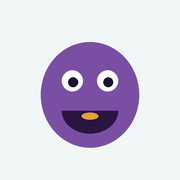
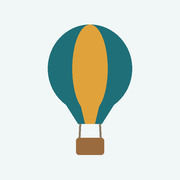
Abo-App: Heißluftballon statt Monster (Nein-Verträge als Sandsäcke)
Claude-Session: https://claude.ai/code/session_01Giu3Q7UQ7r1pL5sZZEkJSp

diff --git a/docs/app/abo/index.html b/docs/app/abo/index.html
@@ -9,7 +9,7 @@
 <meta name="theme-color" content="#F1F6F7">
 <meta name="apple-mobile-web-app-capable" content="yes">
 <meta name="mobile-web-app-capable" content="yes">
-<meta name="apple-mobile-web-app-title" content="Abo-Monster">
+<meta name="apple-mobile-web-app-title" content="Abo-Tracker">
 <meta name="apple-mobile-web-app-status-bar-style" content="default">
 <link rel="manifest" href="manifest.webmanifest">
 <link rel="icon" href="icon-192.png" type="image/png">
@@ -18,9 +18,9 @@
 @font-face { font-family: "Fredoka"; src: url(fonts/fredoka.ttf) format("truetype"); font-weight: 300 700; font-display: swap; }
 @font-face { font-family: "Inter"; src: url(fonts/inter-400.ttf) format("truetype"); font-weight: 400; font-display: swap; }
 @font-face { font-family: "Inter"; src: url(fonts/inter-600.ttf) format("truetype"); font-weight: 600; font-display: swap; }
-:root { --page: #F1F6F7; --card: #FFFFFF; --soft: #E5EFF0; --ink: #1B2A2E; --muted: #5C7075; --line: #D3E2E4; --accent: #1F6F78; --accent-ink: #FFFFFF; --gold: #E0A23B; --good: #2F7D52; --bad: #B5483B; --focus: #86C3C9; --hint-bg: #FFF3D6; --hint-ink: #7A5600; --nav: rgba(255,255,255,.94); --shadow: 0 2px 12px rgba(27,42,46,.07); --mon: #7A4FA3; --mon2: #5E3A82; --mon-happy: #3FA08C; --ok-bg: #D3EBDD; --ok-ink: #1C5A39; --no-bg: #F6DCD7; --no-ink: #8A3226; --warn-bg: #FDE7C2; --warn-ink: #7A4300; --display: "Fredoka", "Trebuchet MS", system-ui, sans-serif; --body: "Inter", system-ui, -apple-system, "Segoe UI", sans-serif; color-scheme: light; }
-@media (prefers-color-scheme: dark) { :root:not([data-theme="light"]) { --page: #10191B; --card: #192529; --soft: #213136; --ink: #E6F0F1; --muted: #9BB1B5; --line: #2B3F44; --accent: #5BBAC4; --accent-ink: #0D1618; --gold: #F0BE55; --good: #6CC79A; --bad: #E8897B; --focus: #86C3C9; --hint-bg: #3A2F12; --hint-ink: #F5D38A; --nav: rgba(25,37,41,.95); --shadow: 0 2px 12px rgba(0,0,0,.35); --mon: #9C74C6; --mon2: #7A55A6; --mon-happy: #58C1AA; --ok-bg: #23443A; --ok-ink: #C6EBD9; --no-bg: #45302C; --no-ink: #F0C2B9; --warn-bg: #47391F; --warn-ink: #F2D7A2; --display: "Fredoka", "Trebuchet MS", system-ui, sans-serif; --body: "Inter", system-ui, -apple-system, "Segoe UI", sans-serif; color-scheme: dark; } }
-:root[data-theme="dark"] { --page: #10191B; --card: #192529; --soft: #213136; --ink: #E6F0F1; --muted: #9BB1B5; --line: #2B3F44; --accent: #5BBAC4; --accent-ink: #0D1618; --gold: #F0BE55; --good: #6CC79A; --bad: #E8897B; --focus: #86C3C9; --hint-bg: #3A2F12; --hint-ink: #F5D38A; --nav: rgba(25,37,41,.95); --shadow: 0 2px 12px rgba(0,0,0,.35); --mon: #9C74C6; --mon2: #7A55A6; --mon-happy: #58C1AA; --ok-bg: #23443A; --ok-ink: #C6EBD9; --no-bg: #45302C; --no-ink: #F0C2B9; --warn-bg: #47391F; --warn-ink: #F2D7A2; --display: "Fredoka", "Trebuchet MS", system-ui, sans-serif; --body: "Inter", system-ui, -apple-system, "Segoe UI", sans-serif; color-scheme: dark; }
+:root { --page: #F1F6F7; --card: #FFFFFF; --soft: #E5EFF0; --ink: #1B2A2E; --muted: #5C7075; --line: #D3E2E4; --accent: #1F6F78; --accent-ink: #FFFFFF; --gold: #E0A23B; --good: #2F7D52; --bad: #B5483B; --focus: #86C3C9; --hint-bg: #FFF3D6; --hint-ink: #7A5600; --nav: rgba(255,255,255,.94); --shadow: 0 2px 12px rgba(27,42,46,.07); --sky1: #BFE2EE; --sky2: #F2FAFC; --cloud: #FFFFFF; --hill1: #8CC5A0; --hill2: #B7DCC1; --rope: #8A7A66; --basket: #9A6B3F; --bag: #B08A5A; --ok-bg: #D3EBDD; --ok-ink: #1C5A39; --no-bg: #F6DCD7; --no-ink: #8A3226; --warn-bg: #FDE7C2; --warn-ink: #7A4300; --display: "Fredoka", "Trebuchet MS", system-ui, sans-serif; --body: "Inter", system-ui, -apple-system, "Segoe UI", sans-serif; color-scheme: light; }
+@media (prefers-color-scheme: dark) { :root:not([data-theme="light"]) { --page: #10191B; --card: #192529; --soft: #213136; --ink: #E6F0F1; --muted: #9BB1B5; --line: #2B3F44; --accent: #5BBAC4; --accent-ink: #0D1618; --gold: #F0BE55; --good: #6CC79A; --bad: #E8897B; --focus: #86C3C9; --hint-bg: #3A2F12; --hint-ink: #F5D38A; --nav: rgba(25,37,41,.95); --shadow: 0 2px 12px rgba(0,0,0,.35); --sky1: #1C3A4A; --sky2: #2C5163; --cloud: rgba(255,255,255,.16); --hill1: #2E5A43; --hill2: #24473A; --rope: #B9A68C; --basket: #B5834F; --bag: #C49A66; --ok-bg: #23443A; --ok-ink: #C6EBD9; --no-bg: #45302C; --no-ink: #F0C2B9; --warn-bg: #47391F; --warn-ink: #F2D7A2; --display: "Fredoka", "Trebuchet MS", system-ui, sans-serif; --body: "Inter", system-ui, -apple-system, "Segoe UI", sans-serif; color-scheme: dark; } }
+:root[data-theme="dark"] { --page: #10191B; --card: #192529; --soft: #213136; --ink: #E6F0F1; --muted: #9BB1B5; --line: #2B3F44; --accent: #5BBAC4; --accent-ink: #0D1618; --gold: #F0BE55; --good: #6CC79A; --bad: #E8897B; --focus: #86C3C9; --hint-bg: #3A2F12; --hint-ink: #F5D38A; --nav: rgba(25,37,41,.95); --shadow: 0 2px 12px rgba(0,0,0,.35); --sky1: #1C3A4A; --sky2: #2C5163; --cloud: rgba(255,255,255,.16); --hill1: #2E5A43; --hill2: #24473A; --rope: #B9A68C; --basket: #B5834F; --bag: #C49A66; --ok-bg: #23443A; --ok-ink: #C6EBD9; --no-bg: #45302C; --no-ink: #F0C2B9; --warn-bg: #47391F; --warn-ink: #F2D7A2; --display: "Fredoka", "Trebuchet MS", system-ui, sans-serif; --body: "Inter", system-ui, -apple-system, "Segoe UI", sans-serif; color-scheme: dark; }
 
 * { box-sizing: border-box; }
 [hidden] { display: none !important; }
@@ -92,8 +92,18 @@ nav.tabs button[aria-selected="true"] { color: var(--accent); background: var(--
 canvas#confetti { position: fixed; inset: 0; pointer-events: none; z-index: 8; }
 @media (prefers-reduced-motion: reduce) { .view.on { animation: none; } .progress i { transition: none; } }
 
-.monBox { display: grid; grid-template-columns: 150px minmax(0, 1fr); gap: 10px; align-items: center; }
-#mon { width: 150px; height: 150px; display: block; overflow: visible; }
+#bal { width: 100%; height: auto; display: block; }
+.bon { position: relative; background: #fffdf8; color: #2b2b2b; font-family: ui-monospace, "SFMono-Regular", Menlo, Consolas, monospace; font-size: 13.5px; padding: 14px 16px 22px; border-radius: 6px 6px 0 0; box-shadow: 0 6px 18px rgba(0,0,0,.10); max-width: 340px; margin: 0 auto;
+  -webkit-mask: conic-gradient(from -45deg at bottom, #0000, #000 1deg 89deg, #0000 90deg) 50% / 14px 100%; mask: conic-gradient(from -45deg at bottom, #0000, #000 1deg 89deg, #0000 90deg) 50% / 14px 100%; }
+.bonHead { text-align: center; letter-spacing: 2px; font-weight: 700; padding-bottom: 8px; border-bottom: 1.5px dashed #bbb; margin-bottom: 6px; }
+.bonRow { display: flex; justify-content: space-between; gap: 10px; padding: 3px 0; }
+.bonRow span:first-child { overflow: hidden; text-overflow: ellipsis; white-space: nowrap; }
+.bonRow.no { color: #b5483b; font-weight: 700; }
+.bonRow.kill { color: #2f7d52; text-decoration: line-through; }
+.bonRow.more { color: #777; }
+.bonSum { display: flex; justify-content: space-between; font-weight: 700; font-size: 15px; border-top: 1.5px dashed #bbb; margin-top: 6px; padding-top: 8px; }
+.stamp { display: table; margin: 14px auto 2px; transform: rotate(-4deg); border: 2.5px solid #b5483b; color: #b5483b; font-family: var(--display); font-weight: 700; font-size: 15px; padding: 4px 10px; border-radius: 8px; background: rgba(255,253,248,.85); }
+.stamp.ok { border-color: #2f7d52; color: #2f7d52; }
 .speech { background: var(--soft); border-radius: 16px 16px 16px 4px; padding: 10px 12px; font-family: var(--display); font-weight: 600; font-size: 15.5px; line-height: 1.25; }
 .speech small { display: block; font-family: var(--body); font-size: 11.5px; color: var(--muted); margin-top: 5px; font-weight: 600; text-transform: uppercase; letter-spacing: .3px; }
 .bigrow { display: grid; grid-template-columns: repeat(3, minmax(0, 1fr)); gap: 8px; }
@@ -127,10 +137,8 @@ canvas#confetti { position: fixed; inset: 0; pointer-events: none; z-index: 8; }
     <header class="top"><div><h1>Abos &amp; Fixkosten 2027</h1><p class="sub">Was geht jeden Monat fest ab?</p></div></header>
     <div class="hint" data-ex hidden><span>Das sind Beispiele zum Ausprobieren.</span><button type="button" data-clear-example>Beispiele löschen</button></div>
     <div class="card">
-      <div class="monBox">
-        <svg id="mon" viewBox="0 0 160 160" role="img" aria-label="Abo-Monster"></svg>
-        <div class="speech" id="say">…</div>
-      </div>
+      <svg id="bal" viewBox="0 0 320 240" role="img" aria-label="Heißluftballon: Sandsäcke sind Verträge, die du nicht brauchst"></svg>
+      <div class="speech" id="say" style="margin-top:12px">…</div>
     </div>
     <div class="bigrow">
       <div class="stat"><span>Pro Monat</span><b id="fM">–</b></div>
@@ -145,7 +153,7 @@ canvas#confetti { position: fixed; inset: 0; pointer-events: none; z-index: 8; }
   <section class="view" id="v-vertraege" aria-label="Verträge">
     <header class="top"><div><h1>Verträge</h1><p class="sub">Alles, was regelmäßig abgebucht wird.</p></div></header>
     <div class="card"><div class="chips" id="fil" role="group" aria-label="Filter"></div><div id="ctrList" style="margin-top:6px"></div><p class="empty" id="ctrEmpty" hidden>Nichts in dieser Liste.</p>
-      <p class="empty" style="text-align:left;margin-top:8px">„Brauche ich das?“ antippen: Ja → Vielleicht → Nein. Nein-Verträge füttern das Monster.</p></div>
+      <p class="empty" style="text-align:left;margin-top:8px">„Brauche ich das?“ antippen: Ja → Vielleicht → Nein. Nein-Verträge zeigen dein Sparpotenzial.</p></div>
     <form class="card" id="ctrForm" autocomplete="off">
       <h2>Vertrag eintragen</h2>
       <div class="row">
@@ -211,7 +219,7 @@ canvas#confetti { position: fixed; inset: 0; pointer-events: none; z-index: 8; }
 
 </div>
 <nav class="tabs" aria-label="Bereiche"><div class="in" role="tablist">
-  <button type="button" role="tab" data-tab="start" aria-selected="true"><svg viewBox="0 0 24 24" fill="none" stroke="currentColor" stroke-width="1.8" stroke-linecap="round" stroke-linejoin="round"><path d="M4.5 19.5V12a7.5 7.5 0 0 1 15 0v7.5l-2.5-1.6-2.5 1.6-2.5-1.6-2.5 1.6-2.5-1.6z"/><circle cx="9.5" cy="11" r="1.2" fill="currentColor"/><circle cx="14.5" cy="11" r="1.2" fill="currentColor"/></svg>Start</button>
+  <button type="button" role="tab" data-tab="start" aria-selected="true"><svg viewBox="0 0 24 24" fill="none" stroke="currentColor" stroke-width="1.8" stroke-linecap="round" stroke-linejoin="round"><path d="M12 3a6.5 6.5 0 0 0-6.5 6.5c0 3.2 2.6 5.6 4.6 7h3.8c2-1.4 4.6-3.8 4.6-7A6.5 6.5 0 0 0 12 3z"/><path d="M10.1 16.5l.4 2.5h3l.4-2.5M10 19h4v2.5h-4z"/></svg>Start</button>
   <button type="button" role="tab" data-tab="vertraege" aria-selected="false"><svg viewBox="0 0 24 24" fill="none" stroke="currentColor" stroke-width="1.8" stroke-linecap="round" stroke-linejoin="round"><path d="M6 3.5h9l4 4v13H6z"/><path d="M15 3.5v4h4M9 12h7M9 15.5h7"/></svg>Verträge</button>
   <button type="button" role="tab" data-tab="jahr" aria-selected="false"><svg viewBox="0 0 24 24" fill="none" stroke="currentColor" stroke-width="1.8" stroke-linecap="round" stroke-linejoin="round"><path d="M4 20h16M6.5 20v-6M10.5 20V8M14.5 20v-9M18.5 20V5"/></svg>Jahr</button>
   <button type="button" role="tab" data-tab="gekuendigt" aria-selected="false"><svg viewBox="0 0 24 24" fill="none" stroke="currentColor" stroke-width="1.8" stroke-linecap="round" stroke-linejoin="round"><circle cx="12" cy="12" r="8.5"/><path d="M8 12.3l2.6 2.6L16.2 9"/></svg>Gekündigt</button>
@@ -287,46 +295,70 @@ canvas#confetti { position: fixed; inset: 0; pointer-events: none; z-index: 8; }
     return { m: m, y: m * 12, d: m * 12 / 365, pot: pot * 12, potM: pot, nNo: nNo, saved: saved * 12, nKill: nKill, months: months };
   }
 
-  /* ---------- Abo-Monster ---------- */
-  var monShown = 0, monTarget = 0, blink = 0, monRun = false;
-  function monster(f, t) {
-    var s = $("mon"); while (s.firstChild) s.removeChild(s.firstChild);
-    var r = 26 + 48 * f, cx = 80, cy = 150 - r, happy = f < .05, col = happy ? "var(--mon-happy)" : "var(--mon)";
-    el("ellipse", { cx: 80, cy: 152, rx: r * .9 + 6, ry: 5, style: "fill:var(--line)" }, s);
-    var wob = reduce ? 0 : Math.sin(t / 380) * 2.5 * (0.4 + f);
-    var d = "M" + (cx - r) + " " + (cy + r * .55) + " Q" + (cx - r - 4) + " " + (cy - r * .9 + wob) + " " + cx + " " + (cy - r - wob) + " Q" + (cx + r + 4) + " " + (cy - r * .9 - wob) + " " + (cx + r) + " " + (cy + r * .55) + " Q" + (cx + r * .7) + " " + (cy + r + 2) + " " + cx + " " + (cy + r) + " Q" + (cx - r * .7) + " " + (cy + r + 2) + " " + (cx - r) + " " + (cy + r * .55) + " Z";
-    [[-.5, -1], [.5, 1]].forEach(function (h2) { var hx = cx + h2[0] * r * .9, hy = cy - r * .78; el("path", { d: "M" + (hx - 7) + " " + (hy + 6) + " L" + (hx + h2[1] * 5) + " " + (hy - 12 - f * 6) + " L" + (hx + 7) + " " + (hy + 4) + " Z", style: "fill:" + col }, s); });
-    el("path", { d: d, style: "fill:" + col }, s);
-    el("ellipse", { cx: cx - r * .35, cy: cy - r * .4, rx: r * .22, ry: r * .12, style: "fill:#fff;opacity:.18" }, s);
-    var ey = cy - r * .22, ex = r * .34, er = 6 + f * 5, shut = blink > 0;
-    [-1, 1].forEach(function (sd) {
-      if (shut || happy) { el("path", { d: "M" + (cx + sd * ex - er) + " " + ey + " Q" + (cx + sd * ex) + " " + (ey + (happy ? -er : 3)) + " " + (cx + sd * ex + er) + " " + ey, style: "fill:none;stroke:#1b1030;stroke-width:3;stroke-linecap:round" }, s); }
-      else { el("circle", { cx: cx + sd * ex, cy: ey, r: er, style: "fill:#fff" }, s); el("circle", { cx: cx + sd * ex + 1.5, cy: ey + 1.5, r: er * .5, style: "fill:#1b1030" }, s); }
-    });
-    var my = cy + r * .25, mw = r * .55;
-    if (happy) el("path", { d: "M" + (cx - mw * .6) + " " + my + " Q" + cx + " " + (my + 12) + " " + (cx + mw * .6) + " " + my, style: "fill:none;stroke:#1b1030;stroke-width:3;stroke-linecap:round" }, s);
-    else {
-      var mh = 6 + f * 22 + (reduce ? 0 : Math.max(0, Math.sin(t / 260)) * 4 * f);
-      el("path", { d: "M" + (cx - mw) + " " + my + " Q" + cx + " " + (my - 4) + " " + (cx + mw) + " " + my + " Q" + cx + " " + (my + mh * 1.6) + " " + (cx - mw) + " " + my + " Z", style: "fill:#2a1540" }, s);
-      for (var k = 0; k < 4; k++) { var tx = cx - mw * .7 + k * mw * .47; el("path", { d: "M" + (tx - 4) + " " + (my - 1) + " L" + tx + " " + (my + 6 + f * 4) + " L" + (tx + 4) + " " + (my - 1) + " Z", style: "fill:#fff" }, s); }
-      if (f > .25) { var cy2 = my + mh * .5; el("ellipse", { cx: cx + 3, cy: cy2, rx: 7, ry: 3, style: "fill:var(--gold)" }, s); }
-    }
+  /* ---------- Bild oben: HERO = ballon | bon ---------- */
+  var HERO = "ballon";
+  var alt = 0, altT = 0, bags = 0, prevBags = -1, falling = [], heroRun = false;
+  function heroSet(T) {
+    var n = Math.min(T.nNo, 6);
+    if (prevBags >= 0 && n < prevBags) for (var i = n; i < prevBags; i++) falling.push({ i: i, y: 0, v: 0 });
+    prevBags = n; bags = n; altT = !state.items.length ? .45 : 1 - n / 6;
+    if (HERO === "bon") bon(T); else if (!heroRun) { heroRun = true; requestAnimationFrame(ballonLoop); }
   }
-  function monLoop(t) { if (Math.abs(monTarget - monShown) > .002) monShown += (monTarget - monShown) * (reduce ? 1 : .07); else monShown = monTarget;
-    if (!reduce && Math.random() < .006) blink = 8; if (blink > 0) blink--;
-    if ($("v-start").classList.contains("on")) monster(monShown, t || 0);
-    requestAnimationFrame(monLoop); }
+  function ballon(a, t) {
+    var s = $("bal"); while (s.firstChild) s.removeChild(s.firstChild);
+    var defs = el("defs", {}, s), lg = el("linearGradient", { id: "sky", x1: 0, y1: 0, x2: 0, y2: 1 }, defs);
+    el("stop", { offset: "0", style: "stop-color:var(--sky1)" }, lg); el("stop", { offset: "1", style: "stop-color:var(--sky2)" }, lg);
+    el("rect", { x: 0, y: 0, width: 320, height: 240, rx: 16, style: "fill:url(#sky)" }, s);
+    var dr = reduce ? 0 : (t / 90) % 380;
+    [[40, 44, 1], [210, 30, .8], [290, 84, .9], [110, 120, .7]].forEach(function (c) { var x = ((c[0] + dr * c[2] * .3) % 380) - 30, g = el("g", { style: "fill:var(--cloud)" }, s);
+      el("ellipse", { cx: x, cy: c[1], rx: 22 * c[2], ry: 8 * c[2] }, g); el("ellipse", { cx: x + 12 * c[2], cy: c[1] - 6 * c[2], rx: 13 * c[2], ry: 9 * c[2] }, g); el("ellipse", { cx: x - 10 * c[2], cy: c[1] - 3 * c[2], rx: 10 * c[2], ry: 7 * c[2] }, g); });
+    el("path", { d: "M0 214 Q60 194 130 210 T260 206 T320 204 L320 224 Q320 240 304 240 L16 240 Q0 240 0 224 Z", style: "fill:var(--hill2)" }, s);
+    el("path", { d: "M0 226 Q80 208 170 224 T320 220 L320 224 Q320 240 304 240 L16 240 Q0 240 0 224 Z", style: "fill:var(--hill1)" }, s);
+    var k = 1.15, cyG = 228 - 92 * k, cyT = 10 + 48 * k;
+    var sway = reduce ? 0 : Math.sin(t / 900) * 3, bob = reduce || a < .02 ? 0 : Math.sin(t / 650) * 2.5;
+    var g = el("g", { transform: "translate(" + (160 + sway).toFixed(2) + " " + (cyG - a * (cyG - cyT) + bob).toFixed(2) + ") scale(" + k + ")" }, s);
+    el("path", { d: "M0 -48 C50 -48 54 6 12 38 L-12 38 C-54 6 -50 -48 0 -48 Z", style: "fill:var(--accent)" }, g);
+    el("path", { d: "M0 -48 C19 -48 21 6 5 38 L-5 38 C-21 6 -19 -48 0 -48 Z", style: "fill:var(--gold)" }, g);
+    el("path", { d: "M-34 -26 Q-38 -6 -25 14", style: "fill:none;stroke:#fff;stroke-width:3;stroke-linecap:round;opacity:.35" }, g);
+    el("path", { d: "M-12 38 L-9 54 M12 38 L9 54", style: "stroke:var(--rope);stroke-width:1.3" }, g);
+    el("rect", { x: -10, y: 54, width: 20, height: 13, rx: 2.5, style: "fill:var(--basket)" }, g);
+    el("path", { d: "M-10 59 h20", style: "stroke:rgba(0,0,0,.18);stroke-width:1" }, g);
+    function bag(x, y) { el("path", { d: "M" + (x - 6) + " " + (y + 3) + " Q" + (x - 8) + " " + (y + 14) + " " + x + " " + (y + 14) + " Q" + (x + 8) + " " + (y + 14) + " " + (x + 6) + " " + (y + 3) + " Q" + x + " " + (y - 1) + " " + (x - 6) + " " + (y + 3) + " Z", style: "fill:var(--bag);stroke:rgba(0,0,0,.2);stroke-width:.8" }, g);
+      el("text", { x: x, y: y + 11.5, "text-anchor": "middle", style: "font-family:var(--body);font-weight:600;font-size:7px;fill:#fff" }, g).textContent = "€"; }
+    function slot(i) { return [(i - 2.5) * 11.5, 73 + (i % 2) * 5]; }
+    for (var i = 0; i < bags; i++) { var p = slot(i);
+      el("path", { d: "M" + (i < 3 ? -9 : 9) + " 67 L" + p[0] + " " + (p[1] + 1), style: "stroke:var(--rope);stroke-width:.9" }, g); bag(p[0], p[1]); }
+    falling.forEach(function (f) { var p = slot(f.i); bag(p[0], p[1] + f.y); });
+  }
+  function ballonLoop(t) {
+    alt += (altT - alt) * (reduce ? 1 : .03);
+    falling.forEach(function (f) { f.v += .35; f.y += f.v; }); falling = falling.filter(function (f) { return f.y < 160; });
+    if ($("v-start").classList.contains("on")) ballon(alt, t || 0);
+    requestAnimationFrame(ballonLoop);
+  }
+  function bon(T) {
+    var b = $("bon"); b.innerHTML = "";
+    b.appendChild(h("div", "bonHead", "FIXKOSTEN PRO MONAT"));
+    var act = state.items.filter(function (x) { return !x.x; }).sort(function (a, c) { return (c.b === 2) - (a.b === 2) || perMonth(c) - perMonth(a); });
+    var killed = state.items.filter(function (x) { return x.x; });
+    act.slice(0, 6).forEach(function (x) { var r = h("div", "bonRow" + (x.b === 2 ? " no" : "")); r.appendChild(h("span", null, (x.b === 2 ? "✕ " : "") + x.n)); r.appendChild(h("span", null, eur(perMonth(x)))); b.appendChild(r); });
+    if (act.length > 6) { var r = h("div", "bonRow more"); r.appendChild(h("span", null, "+ " + (act.length - 6) + " weitere")); r.appendChild(h("span", null, eur(act.slice(6).reduce(function (s, x) { return s + perMonth(x); }, 0)))); b.appendChild(r); }
+    killed.slice(0, 3).forEach(function (x) { var r = h("div", "bonRow kill"); r.appendChild(h("span", null, x.n)); r.appendChild(h("span", null, "gekündigt")); b.appendChild(r); });
+    var sm = h("div", "bonSum"); sm.appendChild(h("span", null, "SUMME")); sm.appendChild(h("span", null, eur(T.m))); b.appendChild(sm);
+    if (T.pot > 0) b.appendChild(h("div", "stamp", "−" + eur(T.pot, 0) + " / Jahr möglich"));
+    else if (T.saved > 0) b.appendChild(h("div", "stamp ok", "+" + eur(T.saved, 0) + " / Jahr gespart"));
+  }
   function speech(T) {
-    if (!state.items.length) return ["Ich hab Hunger! Trag deine Verträge ein, dann sehen wir, was ich fresse.", ""];
-    if (T.potM <= 0 && T.nKill > 0) return ["Nichts mehr zu fressen. Stark gekündigt!", "Gespart: " + eur(T.saved, 0) + " im Jahr"];
-    if (T.potM <= 0) return ["Alles brauchst du wirklich? Dann bin ich satt. Prüf ruhig die Vielleicht-Verträge.", ""];
-    return ["Mampf! Ich fresse " + eur(T.potM) + " im Monat. Kündige mich klein!", T.nNo + (T.nNo === 1 ? " Vertrag" : " Verträge") + " mit „Nein“"];
+    if (!state.items.length) return ["Trag deine Verträge ein, dann siehst du, was dich jeden Monat Geld kostet.", ""];
+    if (T.potM <= 0 && T.nKill > 0) return [HERO === "bon" ? "Dein Bon ist schlank. Alles, was übrig ist, brauchst du." : "Kein Ballast mehr. Dein Ballon fliegt frei.", "Gespart: " + eur(T.saved, 0) + " im Jahr"];
+    if (T.potM <= 0) return ["Alles markiert mit „Brauche ich“. Prüf ruhig noch die Vielleicht-Verträge.", ""];
+    return [HERO === "bon" ? T.nNo + (T.nNo === 1 ? " Posten brauchst" : " Posten brauchst") + " du nicht: " + eur(T.potM) + " im Monat. Kündigen und streichen." : (T.nNo === 1 ? "Ein Vertrag" : T.nNo + " Verträge") + " mit „Nein“ " + (T.nNo === 1 ? "zieht" : "ziehen") + " dich runter: " + eur(T.potM) + " im Monat. Kündigen heißt Ballast abwerfen.", "Antippen bei Verträge"];
   }
 
   var fil = "alle";
   function render() {
     var T = totals(), t0 = todayD();
-    monTarget = Math.min(T.potM / 80, 1);
+    heroSet(T);
     var sp = speech(T); $("say").textContent = sp[0]; if (sp[1]) $("say").appendChild(h("small", null, sp[1]));
     $("fM").textContent = eur(T.m, 0); $("fY").textContent = eur(T.y, 0); $("fD").textContent = eur(T.d);
     $("pot").textContent = eur(T.pot, 0); $("potInfo").textContent = T.nNo ? "aus " + T.nNo + " Nein-Verträgen" : "Alles mit „Ja“ markiert";
@@ -378,7 +410,6 @@ canvas#confetti { position: fixed; inset: 0; pointer-events: none; z-index: 8; }
     if (!n) { $("cN").focus(); toast("Wie heißt der Vertrag?"); return; } if (!(a > 0)) { $("cA").focus(); toast("Bitte einen Betrag eintragen."); return; }
     state.items.push({ n: n, a: Math.round(a * 100) / 100, r: $("cR").value, c: +$("cC").value, m: +$("cM").value, k: /^\d{4}-\d{2}-\d{2}$/.test($("cK").value) ? $("cK").value : "", b: 0, x: "" });
     $("cN").value = ""; $("cA").value = ""; $("cK").value = ""; touch(); toast(n + " eingetragen"); });
-  function start() { requestAnimationFrame(monLoop); }
 
 
   /* ---------- Laden, Sichern, Löschen (gemeinsam) ---------- */
